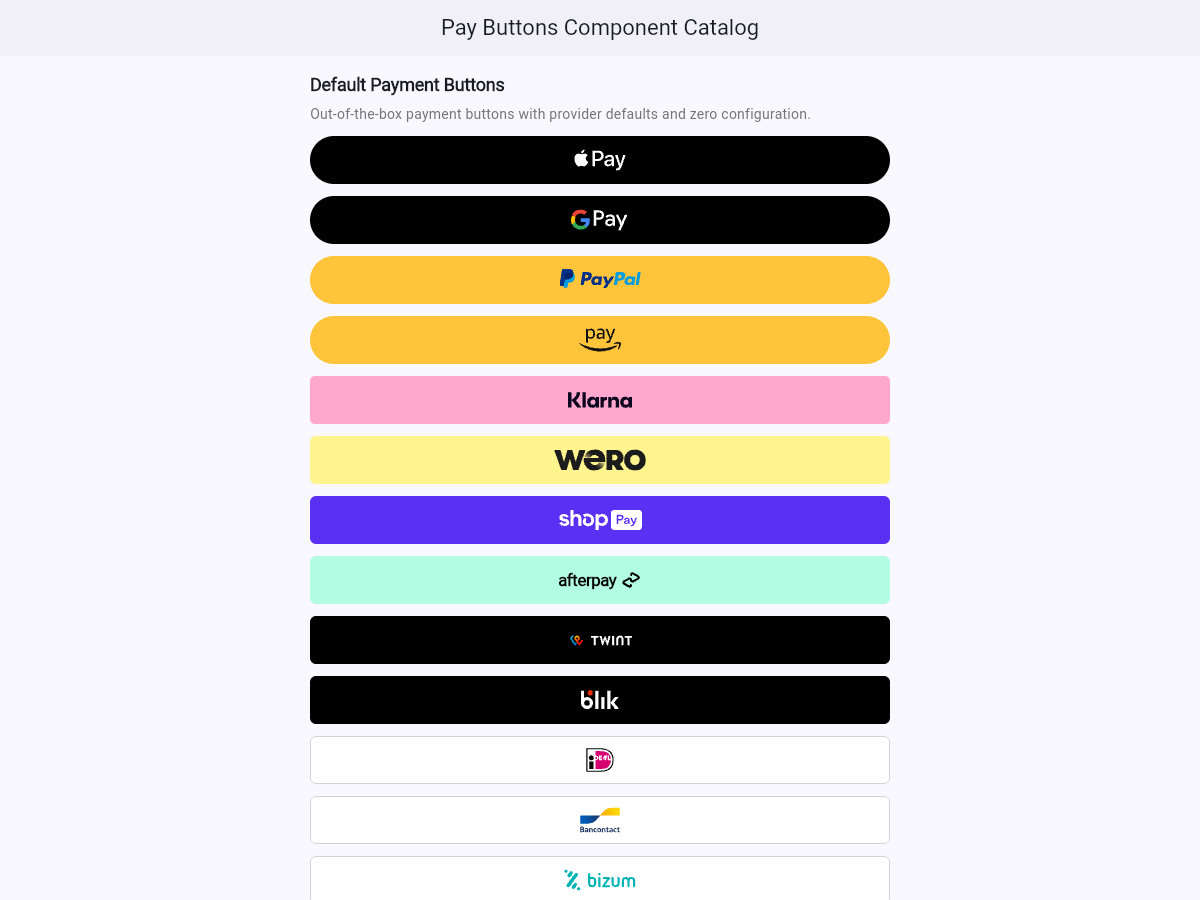
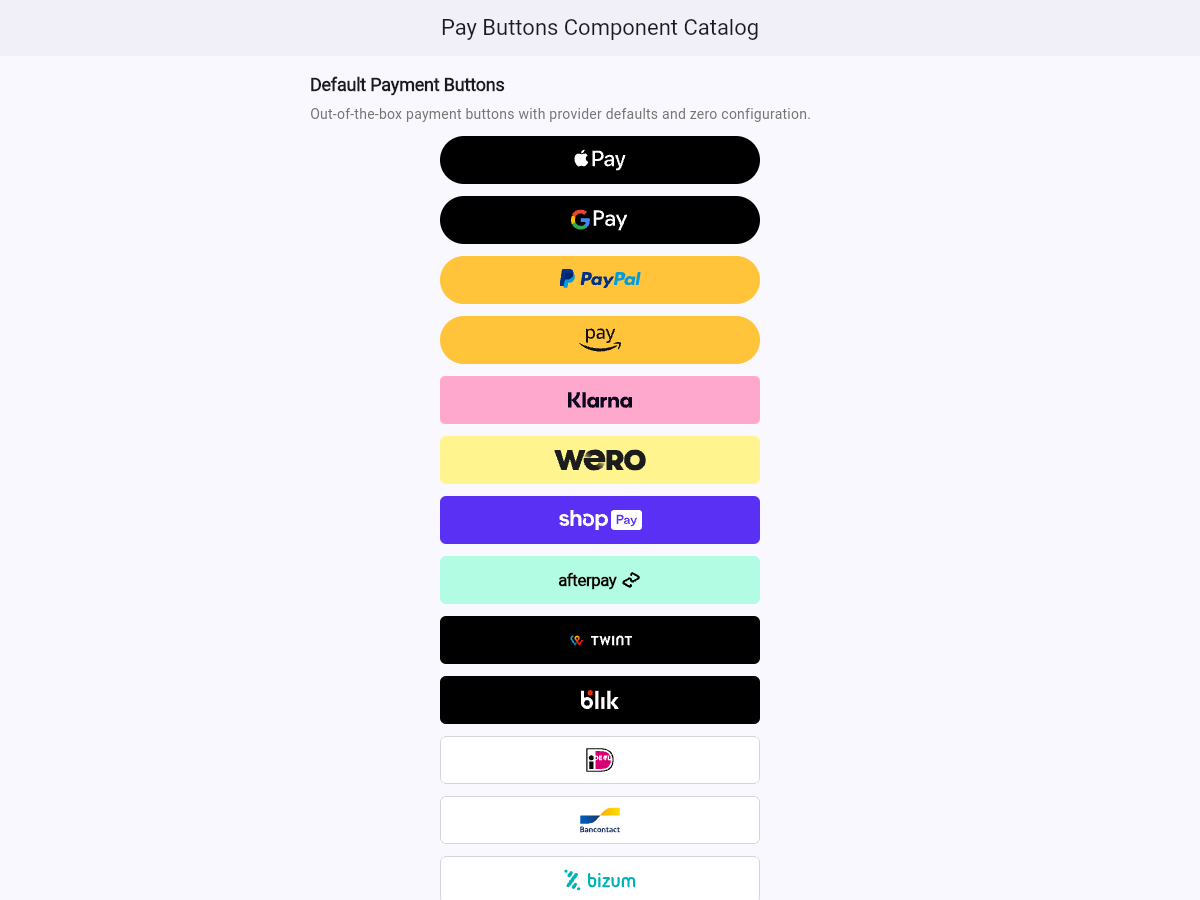
style: narrow overview payment buttons to 320px for balanced layout

Changed region(s): [[0.6167, 0.1244, 0.74, 0.8089], [0.2467, 0.1244, 0.37, 0.8089]]

diff --git a/example/lib/main.dart b/example/lib/main.dart
@@ -76,67 +76,77 @@ class CatalogHomePage extends StatelessWidget {
                     style: TextStyle(color: Colors.grey.shade600, fontSize: 14),
                   ),
                   const SizedBox(height: 12),
-                  Column(
-                    children: [
-                      Wrap(
-                        alignment: WrapAlignment.center,
-                        spacing: 12,
-                        runSpacing: 12,
-                        crossAxisAlignment: WrapCrossAlignment.center,
+                  Center(
+                    child: ConstrainedBox(
+                      constraints: const BoxConstraints(maxWidth: 320),
+                      child: Column(
+                        crossAxisAlignment: CrossAxisAlignment.stretch,
                         children: [
                           ApplePayButton(
                             onPressed: () =>
                                 _handlePayPress(context, 'Apple Pay'),
                           ),
+                          const SizedBox(height: 12),
                           GooglePayButton(
                             onPressed: () =>
                                 _handlePayPress(context, 'Google Pay'),
                           ),
+                          const SizedBox(height: 12),
                           PayPalButton(
                             onPressed: () =>
                                 _handlePayPress(context, 'PayPal'),
                           ),
+                          const SizedBox(height: 12),
                           AmazonPayButton(
                             onPressed: () =>
                                 _handlePayPress(context, 'Amazon Pay'),
                           ),
+                          const SizedBox(height: 12),
                           KlarnaButton(
                             onPressed: () =>
                                 _handlePayPress(context, 'Klarna'),
                           ),
+                          const SizedBox(height: 12),
                           WeroButton(
                             onPressed: () => _handlePayPress(context, 'Wero'),
                           ),
+                          const SizedBox(height: 12),
                           ShopPayButton(
                             onPressed: () =>
                                 _handlePayPress(context, 'Shop Pay'),
                           ),
+                          const SizedBox(height: 12),
                           AfterpayButton(
                             onPressed: () =>
                                 _handlePayPress(context, 'Afterpay'),
                           ),
+                          const SizedBox(height: 12),
                           TwintButton(
                             onPressed: () =>
                                 _handlePayPress(context, 'TWINT'),
                           ),
+                          const SizedBox(height: 12),
                           BlikButton(
                             onPressed: () => _handlePayPress(context, 'BLIK'),
                           ),
+                          const SizedBox(height: 12),
                           IdealButton(
                             onPressed: () =>
                                 _handlePayPress(context, 'iDEAL'),
                           ),
+                          const SizedBox(height: 12),
                           BancontactButton(
                             onPressed: () =>
                                 _handlePayPress(context, 'Bancontact'),
                           ),
+                          const SizedBox(height: 12),
                           BizumButton(
                             onPressed: () =>
                                 _handlePayPress(context, 'Bizum'),
                           ),
                         ],
                       ),
-                    ],
+                    ),
                   ),
                   const SizedBox(height: 28),
 
